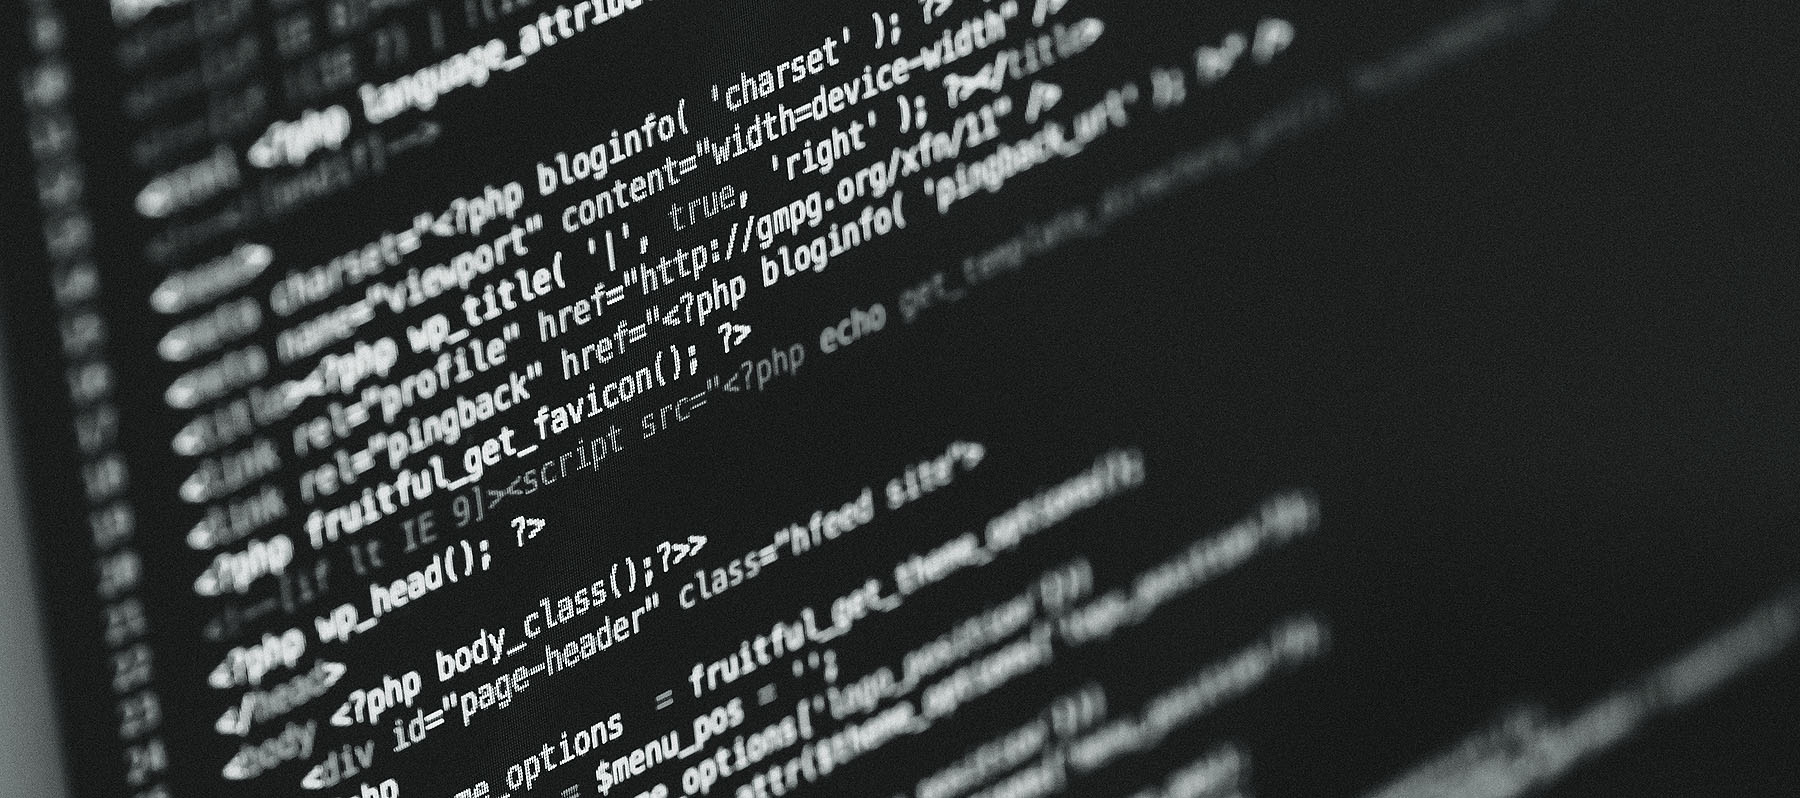
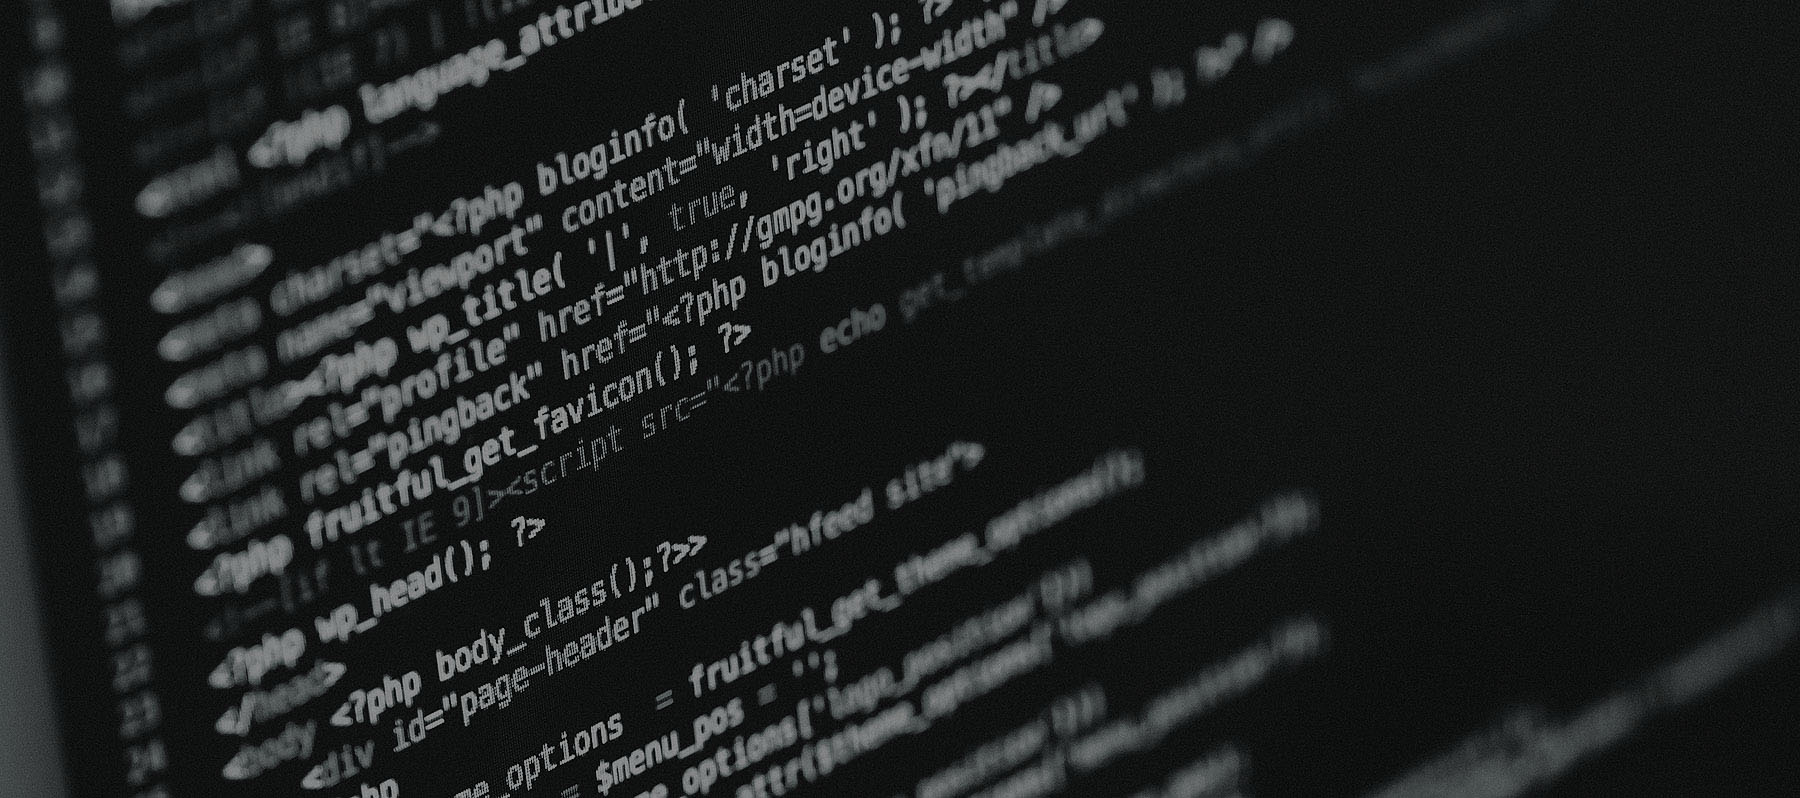
changed background images

diff --git a/include/css/style.css b/include/css/style.css
@@ -60,6 +60,16 @@ a:focus{
 	color: #c59a6d;
 	text-decoration: none;
 }
+
+#home a.down-btn span.fa.fa-angle-down {
+	font-size: 26px;
+	border-radius: 2px;
+	padding: 7px 5px;
+	position: relative;
+	margin-top: 100px;
+	color: #ffffff;
+	cursor: pointer;
+}
 #home{
 	background: url(../img/bg1.jpg);
 	background-size: cover;
@@ -71,17 +81,6 @@ a:focus{
 	padding-top: 60px;
 	color: #ffffff;
 }
-#home a.down-btn span.fa.fa-angle-down {
-	font-size: 26px;
-	border: 1px solid #c59a6d;
-	border-radius: 2px;
-	padding: 7px 5px;
-	position: relative;
-	margin-top: 100px;
-	color: #ffffff;
-	cursor: pointer;
-}
-
 /* IP Logo */
 .iplogo{
 	margin-left:auto;
